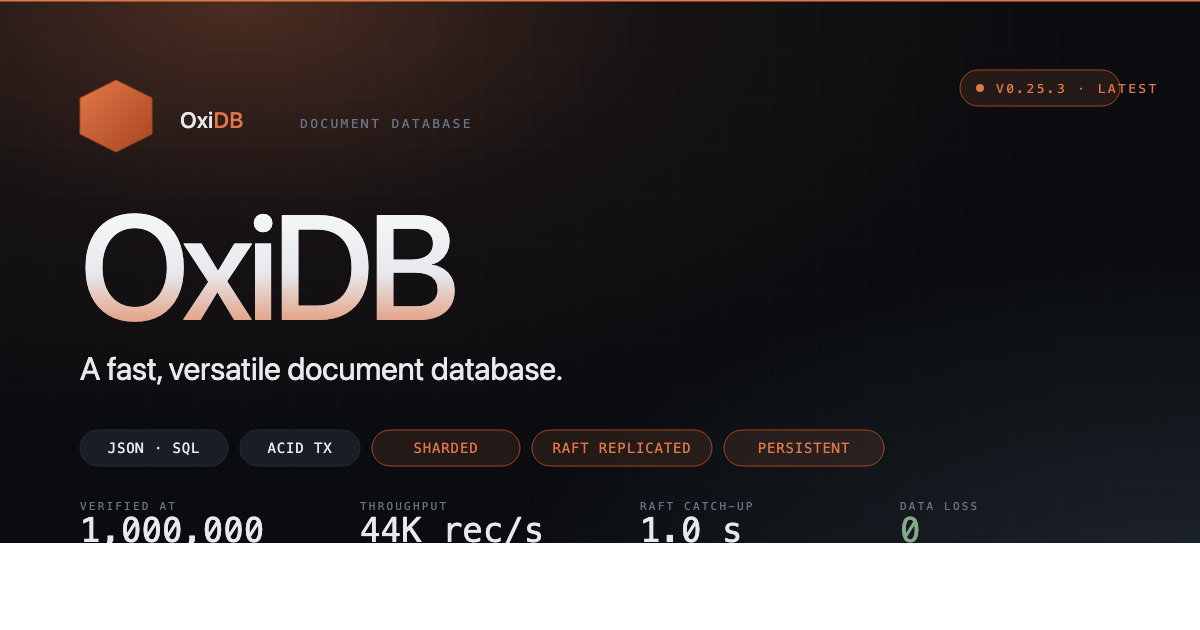
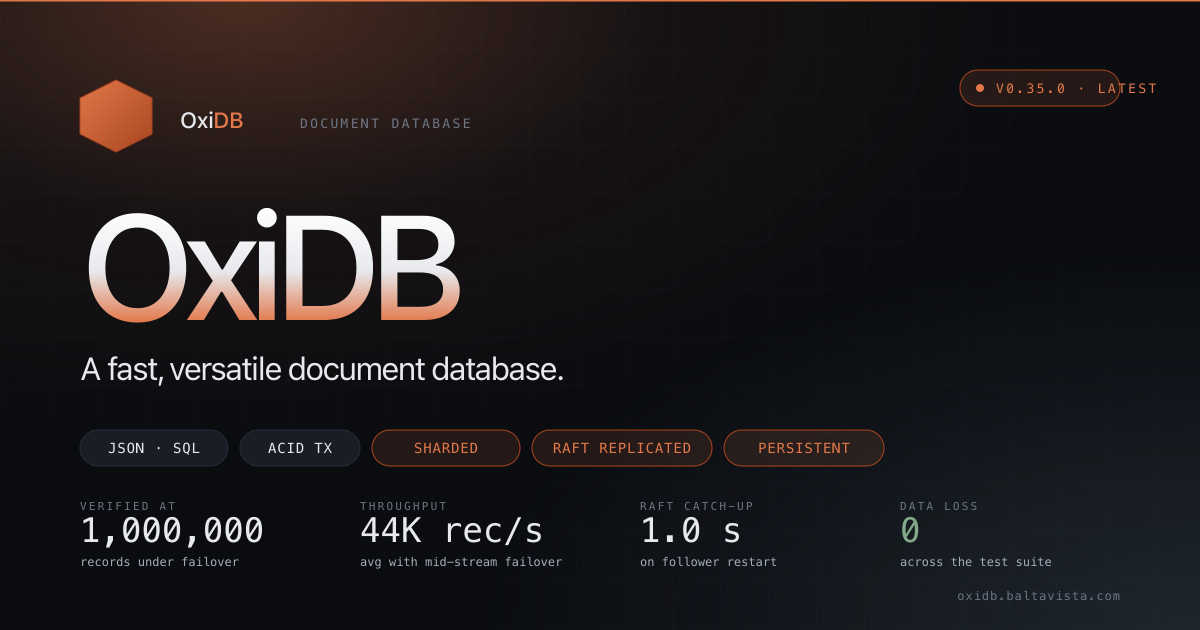
fix(site): refresh the OG social card to v0.35.0
The Twitter/OG preview image still rendered "V0.25.3" — it was a stale PNG never
regenerated. Bump the version in og-card.svg, re-render og-card.png (rsvg), and
append a ?v=0350 cache-buster to the og:image URL so Twitter/Cloudflare fetch
the fresh card instead of the long-cached old one.

diff --git a/website-react/app/layout.tsx b/website-react/app/layout.tsx
@@ -23,7 +23,7 @@ export const metadata: Metadata = {
     type: 'website',
     images: [
       {
-        url: '/og-card.png',
+        url: '/og-card.png?v=0350',
         width: 1200,
         height: 630,
         alt: 'OxiDB v0.35.0 — sharded, Raft-replicated, persistent. 1M records verified under failover.',
@@ -35,7 +35,7 @@ export const metadata: Metadata = {
     title: 'OxiDB - Fast Versatile Document Database',
     description:
       'MongoDB-style JSON queries. ACID transactions. Sharded routing via oxipool. Persistent Raft replication. v0.35.0.',
-    images: ['/og-card.png'],
+    images: ['/og-card.png?v=0350'],
   },
   icons: {
     icon: '/logo.png',
